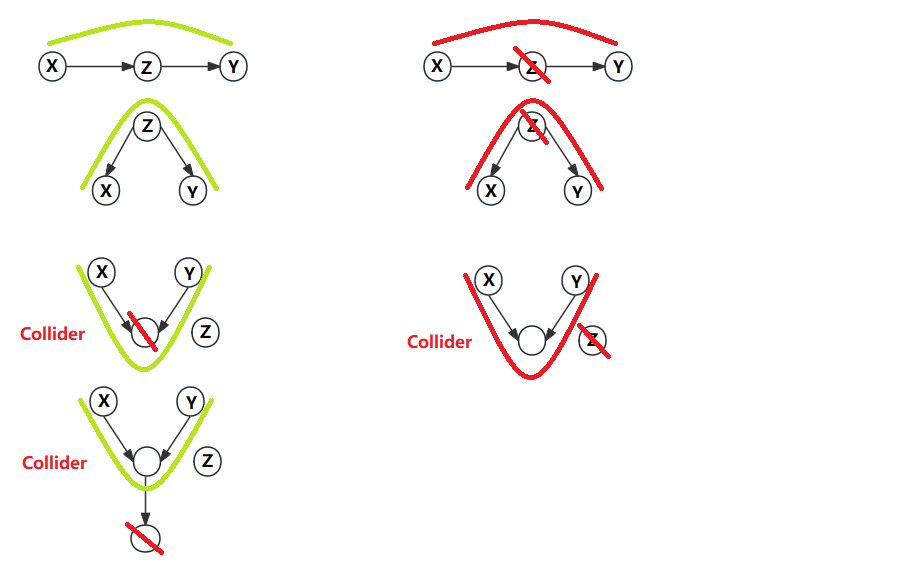
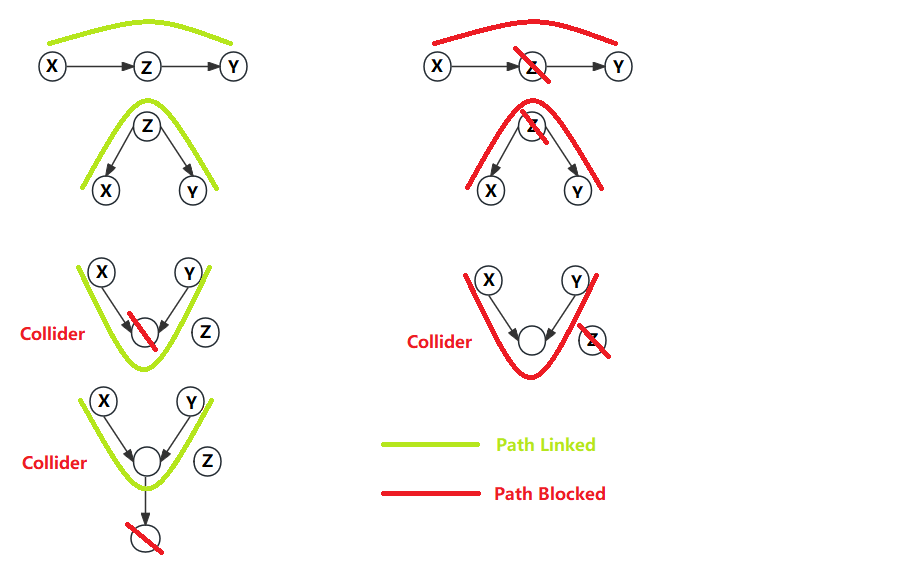
test sed5

Changed region(s): [[0.4044, 0.8365, 0.6844, 0.8675], [0.4044, 0.7435, 0.6844, 0.7745]]

diff --git a/docs/Course/Causal_Inference.md b/docs/Course/Causal_Inference.md
@@ -37,9 +37,12 @@ table th:nth-of-type(5) {
 <!-- https://tex.stackexchange.com/questions/562924/how-to-add-latex-packages-to-markdown -->
 
 
+<!-- $\perp\\!\\!\\!\\!\perp$ for mathjax-->
+<!-- $\perp\!\!\!\!\perp$ for kalatex-->
 
-TBA
 
+
+## 基础概念
 
 
 | 图胚公理 | -- | $\perp$表示相互独立（默认：Z条件下） |
@@ -51,7 +54,7 @@ TBA
 | $(X \perp W \| ZY) \& (X \perp Y \| ZW) \Rightarrow (X \perp YW \| Z)$ | 相交性 | 如果得知W后Y与X无关 且 得知Y后W与X无关，则W、Y都与X无关 |
 
 
+![d-Separation](./Causal_Inference/dSeparation.png)
 
 
 
-$\perp\\!\\!\\!\\!\\perp$
